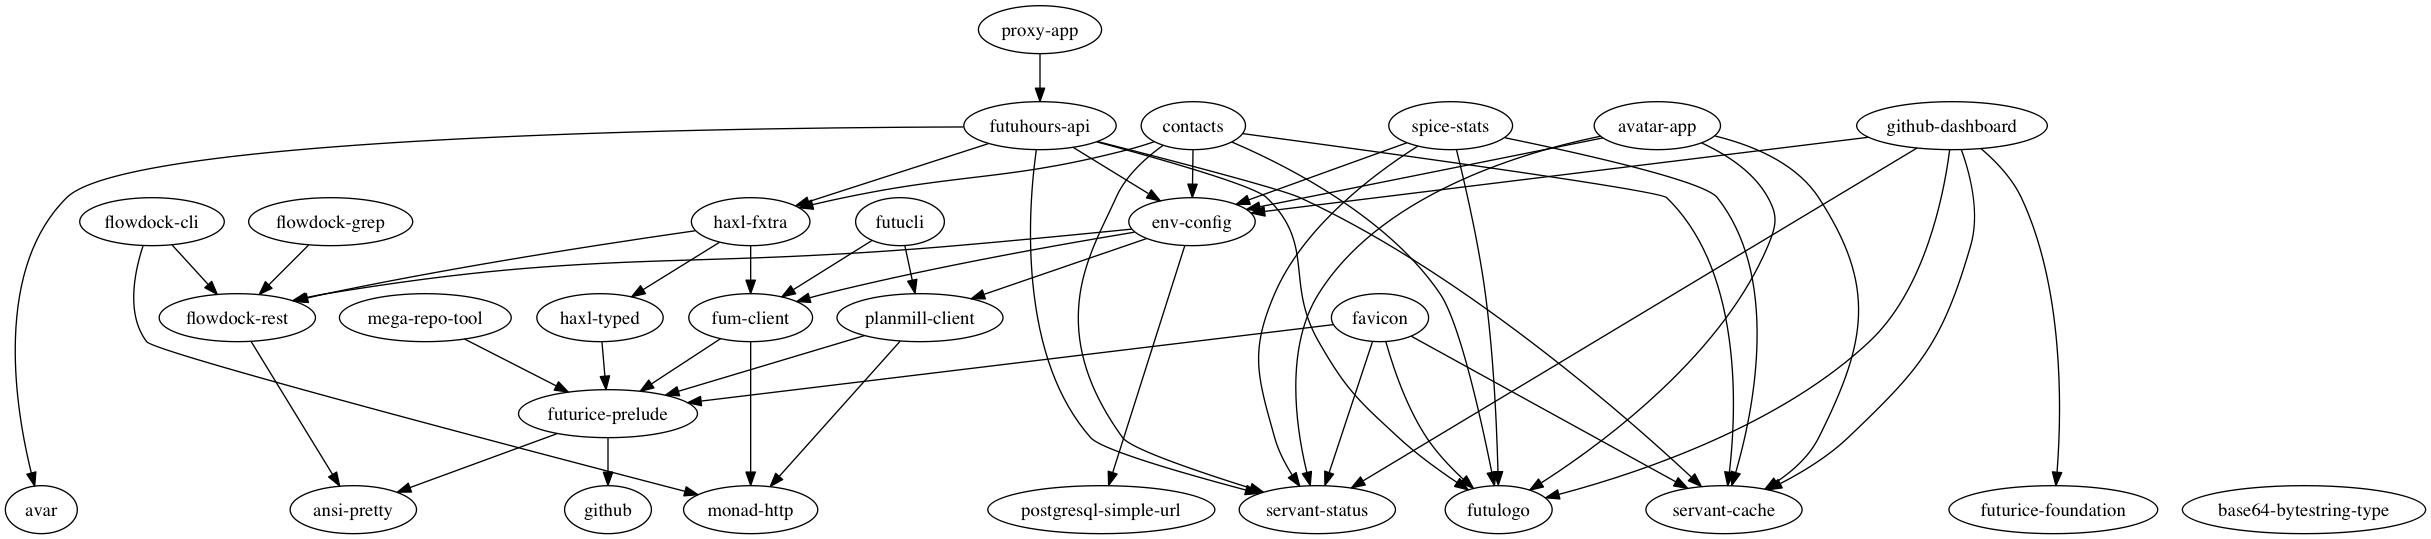
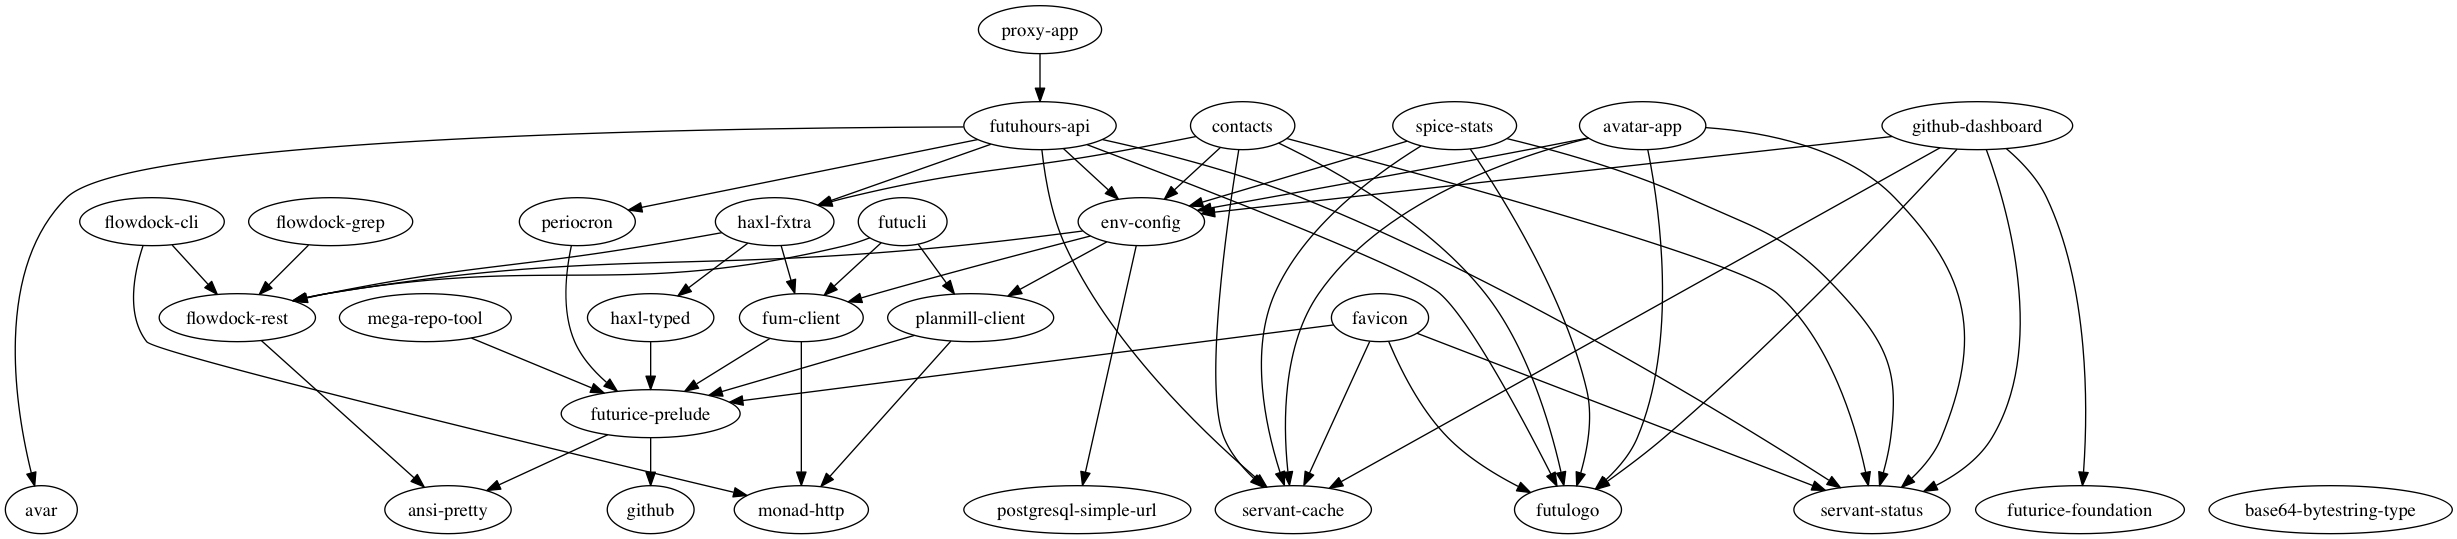
Add periocron

diff --git a/periocron/README.md b/periocron/README.md
@@ -1,0 +1,1 @@
+# avar
